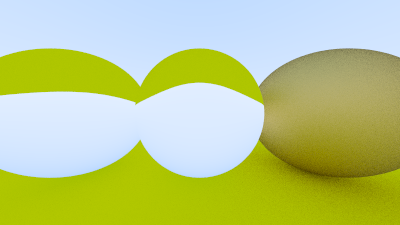
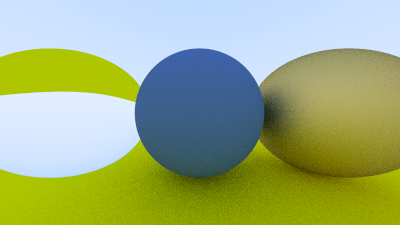
Chapter 10.3, total Internal reflection

Changed region(s): [[0.24, 0.1867, 0.87, 1.0], [0.87, 0.9956, 0.9, 1.0]]

diff --git a/OneWeekend/Raytracing/main.cpp b/OneWeekend/Raytracing/main.cpp
@@ -43,7 +43,7 @@ int main() {
     hittable_list world;
 
     auto material_ground = make_shared<lambertian>(color(0.8, 0.8, 0.0));
-    auto material_center = make_shared<dielectric>(1.5);
+    auto material_center = make_shared<lambertian>(color(0.1, 0.2, 0.5));
     auto material_left = make_shared<dielectric>(1.5);
     auto material_right = make_shared<metal>(color(0.8, 0.6, 0.2), 1.0);
 
